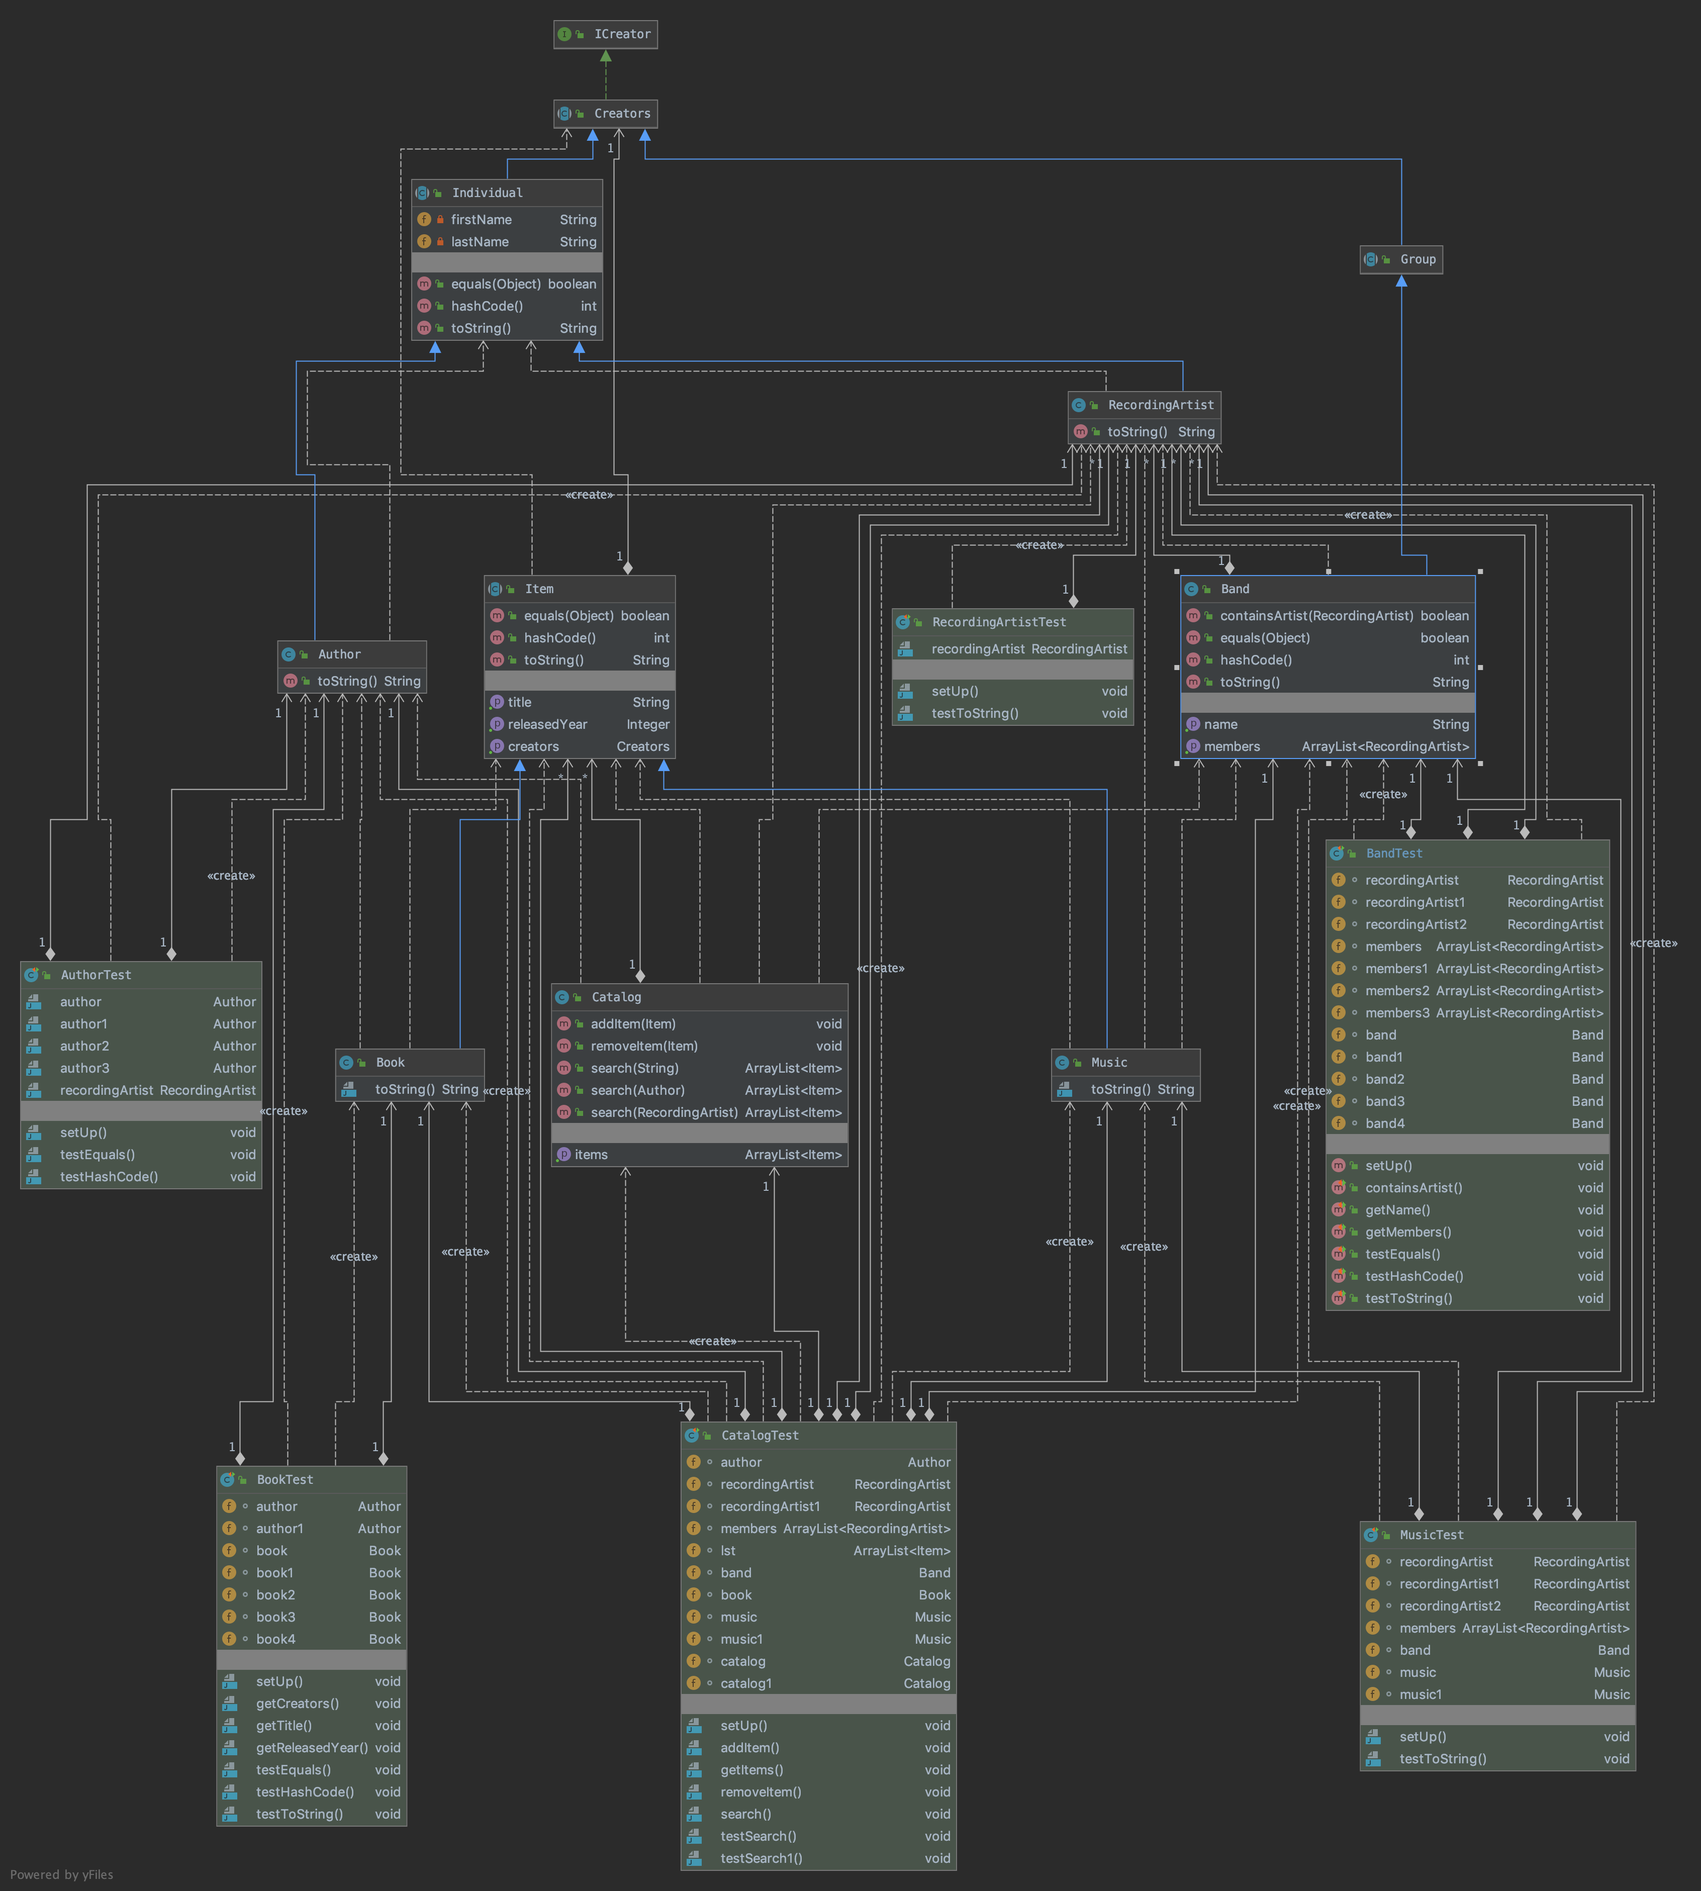
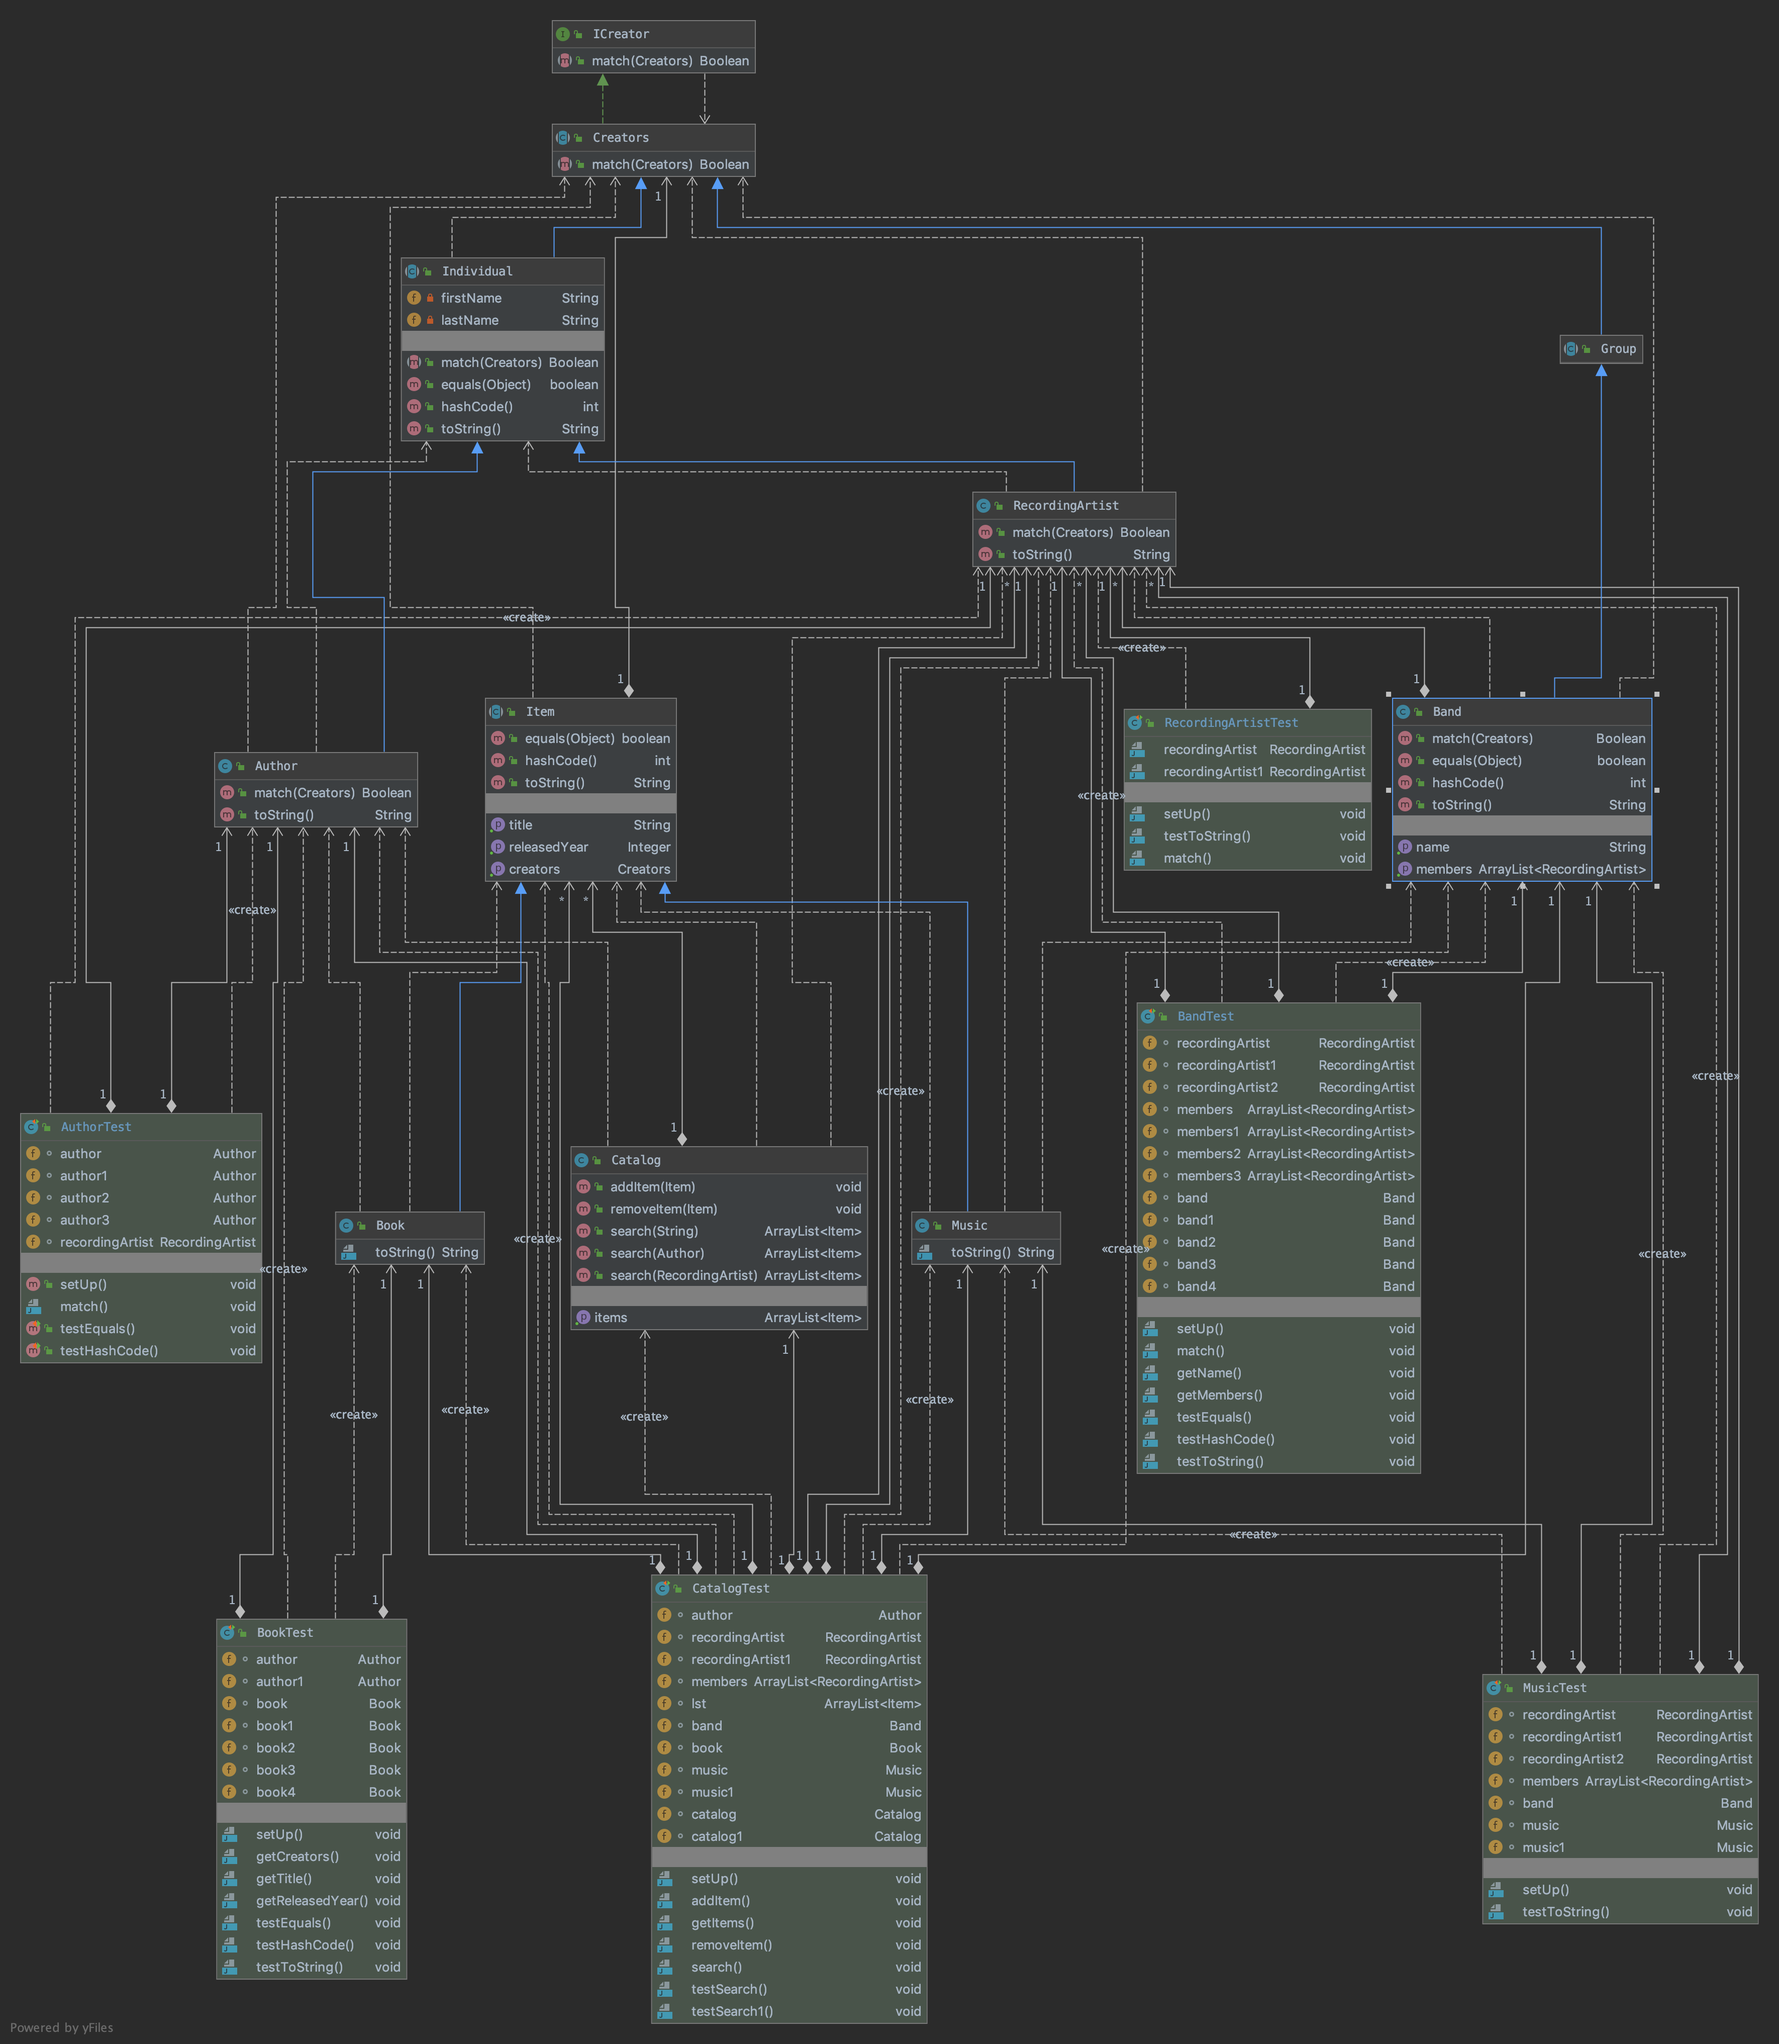
ood

diff --git a/Assignment5/src/main/java/problem2/Catalog.java b/Assignment5/src/main/java/problem2/Catalog.java
@@ -79,7 +79,7 @@ public class Catalog {
   public ArrayList<Item> search(Author author) {
     ArrayList<Item> result = new ArrayList<>();
     for (Item item : this.items) {
-      if (author.equals(item.getCreators())) {
+      if (item.getCreators().match(author)) {
         result.add(item);
       }
     }
@@ -95,10 +95,7 @@ public class Catalog {
   public ArrayList<Item> search(RecordingArtist recordingArtist) {
     ArrayList<Item> result = new ArrayList<>();
     for (Item item : this.items) {
-      if (item.getCreators().equals(recordingArtist)) {
-        result.add(item);
-      } else if (item.getCreators() instanceof Band && ((Band) item.getCreators())
-          .containsArtist(recordingArtist)) {
+      if (item.getCreators().match(recordingArtist)) {
         result.add(item);
       }
     }

diff --git a/Assignment5/src/test/java/problem2/RecordingArtistTest.java b/Assignment5/src/test/java/problem2/RecordingArtistTest.java
@@ -8,15 +8,23 @@ import org.junit.Test;
 public class RecordingArtistTest {
 
   RecordingArtist recordingArtist;
+  RecordingArtist recordingArtist1;
 
   @Before
   public void setUp() throws Exception {
     recordingArtist = new RecordingArtist("as", "bc");
+    recordingArtist1 = new RecordingArtist("ss","dd");
   }
 
   @Test
   public void testToString() {
     assertEquals("RecordingArtist{Individual{firstName='as', lastName='bc'}}",
         recordingArtist.toString());
+  }
+
+  @Test
+  public void match() {
+    assertTrue(recordingArtist.match(recordingArtist));
+    assertFalse(recordingArtist.match(recordingArtist1));
   }
 }

diff --git a/Assignment5/src/main/java/problem2/Band.java b/Assignment5/src/main/java/problem2/Band.java
@@ -27,9 +27,9 @@ public class Band extends Group {
    * @param recordingArtist the recording artist
    * @return the boolean
    */
-  public boolean containsArtist(RecordingArtist recordingArtist) {
+  public Boolean match(Creators creators) {
     for (RecordingArtist ra : this.members) {
-      if (ra.equals(recordingArtist)) {
+      if (creators instanceof RecordingArtist && ra.equals(creators)) {
         return true;
       }
     }

diff --git a/Assignment5/src/main/java/problem2/RecordingArtist.java b/Assignment5/src/main/java/problem2/RecordingArtist.java
@@ -16,6 +16,16 @@ public class RecordingArtist extends Individual {
   }
 
   @Override
+  public Boolean match(Creators creator) {
+    if (creator instanceof RecordingArtist) {
+      if (this.equals(creator)) {
+        return true;
+      }
+    }
+    return false;
+  }
+
+  @Override
   public String toString() {
     return "RecordingArtist{" + super.toString() + "}";
   }

diff --git a/Assignment5/src/main/java/problem2/Author.java b/Assignment5/src/main/java/problem2/Author.java
@@ -16,6 +16,16 @@ public class Author extends Individual {
   }
 
   @Override
+  public Boolean match(Creators creator) {
+    if (creator instanceof Author) {
+      if (this.equals(creator)) {
+        return true;
+      }
+    }
+    return false;
+  }
+
+  @Override
   public String toString() {
     return "Author{" + super.toString() + "}";
   }

diff --git a/Assignment5/src/test/java/problem2/BandTest.java b/Assignment5/src/test/java/problem2/BandTest.java
@@ -49,9 +49,9 @@ public class BandTest {
   }
 
   @Test
-  public void containsArtist() {
-    assertTrue(band.containsArtist(recordingArtist));
-    assertFalse(band.containsArtist(recordingArtist2));
+  public void match() {
+    assertTrue(band.match(recordingArtist));
+    assertFalse(band.match(recordingArtist2));
   }
 
   @Test

diff --git a/Assignment5/src/test/java/problem2/AuthorTest.java b/Assignment5/src/test/java/problem2/AuthorTest.java
@@ -23,6 +23,12 @@ public class AuthorTest {
   }
 
   @Test
+  public void match() {
+    assertTrue(author.match(author));
+    assertFalse(author.match(author2));
+  }
+
+  @Test
   public void testEquals() {
     assertTrue(author.equals(author1));
     assertFalse(author.equals(author2));

diff --git a/Assignment5/src/main/java/problem2/Individual.java b/Assignment5/src/main/java/problem2/Individual.java
@@ -20,6 +20,9 @@ public abstract class Individual extends Creators {
   }
 
   @Override
+  public abstract Boolean match(Creators creator);
+
+  @Override
   public boolean equals(Object o) {
     if (this == o) {
       return true;

diff --git a/Assignment5/src/main/java/problem2/Creators.java b/Assignment5/src/main/java/problem2/Creators.java
@@ -4,5 +4,5 @@ package problem2;
  * The type Creators.
  */
 public abstract class Creators implements ICreator {
-
+  public abstract Boolean match(Creators creator);
 }

diff --git a/Assignment5/src/main/java/problem2/ICreator.java b/Assignment5/src/main/java/problem2/ICreator.java
@@ -4,5 +4,5 @@ package problem2;
  * The interface Creator.
  */
 public interface ICreator {
-
+  public Boolean match(Creators creator);
 }
